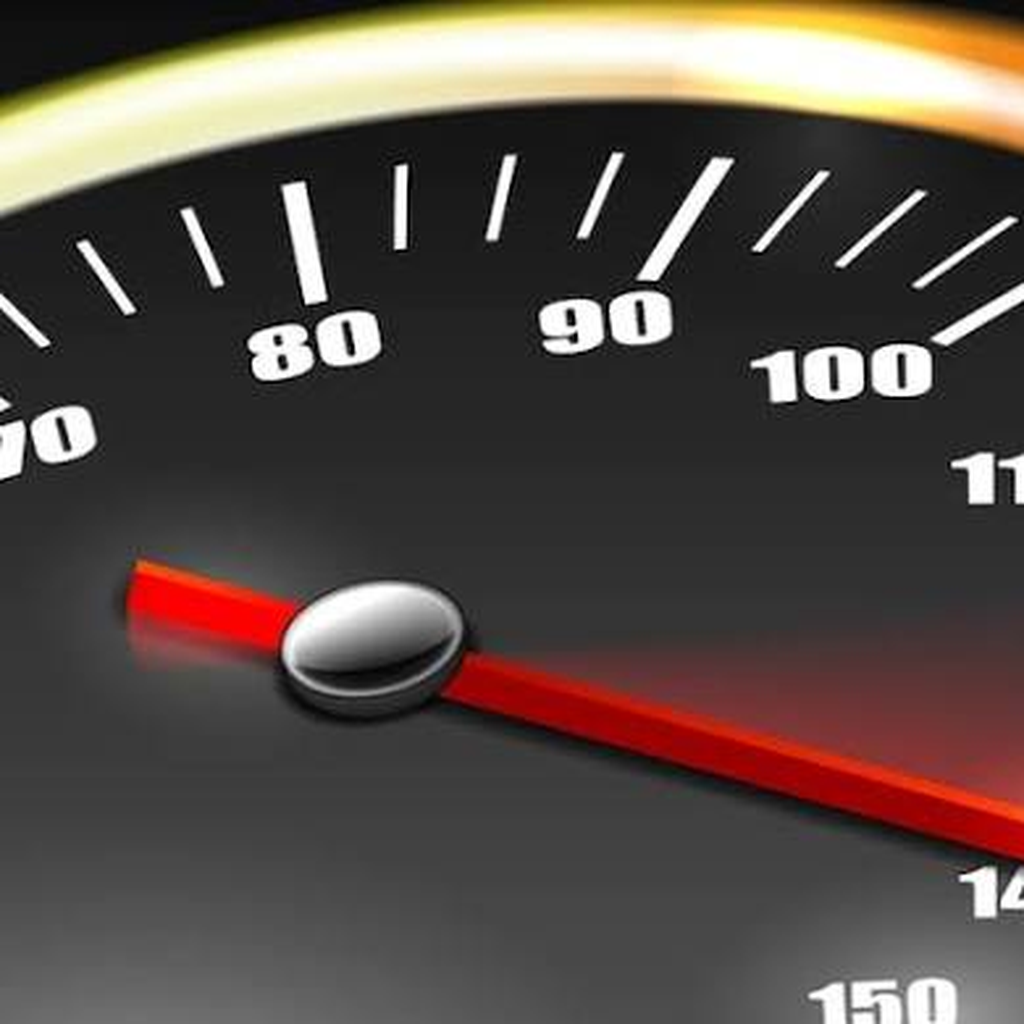
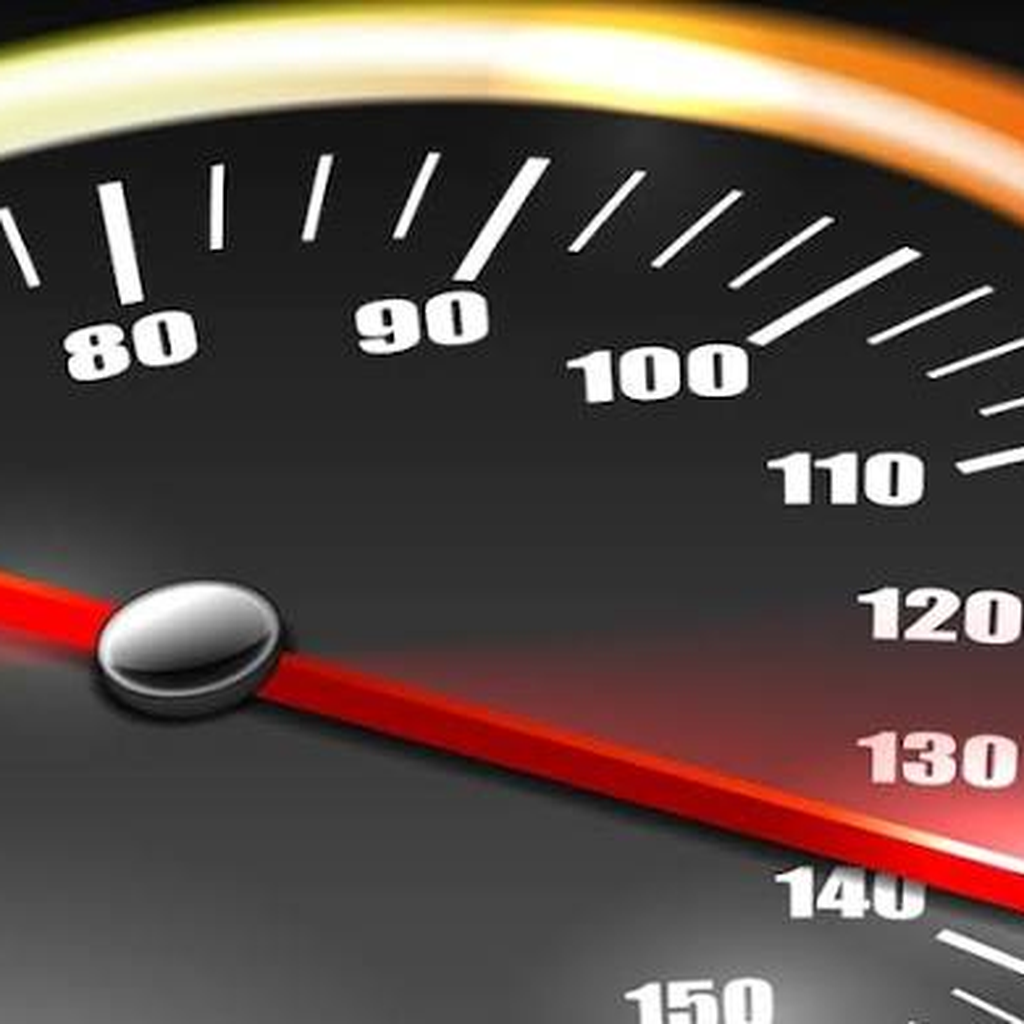
1.11.10: splash com a imagem inteira, ícone refeito e ícone de tacógrafo na barra de estado
Claude-Session: https://claude.ai/code/session_01Dghr6wNKxsXXBDsgbnRJ7d

diff --git a/lib/main.dart b/lib/main.dart
@@ -2,6 +2,7 @@ import 'dart:async';
 import 'dart:convert';
 import 'dart:math' as math;
 import 'dart:ui' show FontFeature;
+import 'dart:ui' as ui;
 
 import 'package:flutter/material.dart';
 import 'package:flutter/services.dart';
@@ -115,20 +116,29 @@ class _SplashScreenState extends State<SplashScreen> {
       body: Stack(
         fit: StackFit.expand,
         children: [
-          Image.asset('assets/splash.jpg',
-              fit: BoxFit.cover, alignment: const Alignment(-0.35, 0)),
+          // 1.11.10: fundo = a imagem desfocada e escura a encher o ecrã;
+          // por cima, a imagem inteira (sem cortar), no meio.
+          ImageFiltered(
+            imageFilter: ui.ImageFilter.blur(sigmaX: 18, sigmaY: 18),
+            child: Image.asset('assets/splash.jpg', fit: BoxFit.cover),
+          ),
+          const ColoredBox(color: Color(0x88000000)),
+          Center(
+            child: Image.asset('assets/splash.jpg',
+                fit: BoxFit.fitWidth, width: double.infinity),
+          ),
           const DecoratedBox(
             decoration: BoxDecoration(
               gradient: LinearGradient(
                 begin: Alignment.topCenter,
                 end: Alignment.bottomCenter,
                 colors: [
-                  Color(0x66000000),
-                  Color(0x22000000),
-                  Color(0xCC000000),
+                  Color(0x99000000),
+                  Color(0x00000000),
+                  Color(0x00000000),
                   Color(0xF2000000),
                 ],
-                stops: [0, 0.35, 0.72, 1],
+                stops: [0, 0.32, 0.62, 1],
               ),
             ),
           ),

diff --git a/lib/tracker.dart b/lib/tracker.dart
@@ -569,6 +569,9 @@ class Tracker extends ChangeNotifier {
         notificationTitle: tr('TacoGuard ativo'),
         notificationText: tr('Controlando a jornada pelo GPS'),
         enableWakeLock: true,
+        // 1.11.10: ícone de tacógrafo na barra de estado (perto das horas).
+        notificationIcon:
+            const AndroidResource(name: 'ic_stat_tacho', defType: 'drawable'),
       ),
     );
     _sub = Geolocator.getPositionStream(locationSettings: settings).listen(

diff --git a/README.md b/README.md
@@ -67,6 +67,7 @@ Segredos do repositório (Settings > Secrets and variables > Actions):
 
 ## Versões
 
+- **1.11.10**: **Splash**: a imagem do conta-quilómetros aparece inteira (sem o zoom que cortava), com o fundo da mesma imagem desfocada. **Ícone do app** refeito: recorte quadrado com 80-90-100 e o ponteiro, dentro da zona segura do ícone adaptativo (já não fica cortado). **Barra de estado**: com o app minimizado aparece um ícone de **tacógrafo** perto das horas (`drawable/ic_stat_tacho.xml`, protegido por `raw/keep.xml`).
 - **1.11.9**: Mini tutorial **"Como ligar (passo a passo)"** em Ajustes → Tacógrafo (4 idiomas): no tacógrafo (menu Bluetooth → Emparelhar), no telemóvel (emparelhar o DTCO-… e confirmar o código de 6 números) e no TacoGuard (ligar a opção, permitir Aparelhos próximos, escolher o tacógrafo), mais o que fazer se não ligar.
 - **1.11.8**: Novo cartão **Tacógrafo** no ecrã Hoje (só aparece com o Bluetooth ligado e dados a chegar): atividade do motorista 1 (descanso/disponibilidade/trabalho/condução) e os tempos lidos do DTCO — condução contínua, pausa acumulada, atividade atual há, condução hoje e na semana, quanto falta conduzir (até a pausa, hoje, semana, 2 semanas) e até ao descanso diário/semanal. Ordem dos pedidos ajustada para os dados mais úteis virem primeiro. Sem ligação, o app continua por GPS como antes.
 - **1.11.7**: Tacógrafo V2 **a funcionar**: o DTCO responde a todos os pedidos (1 crédito por vez, um dado a cada ~4 s). Os tempos vêm em **minutos, 2 bytes** (ex.: condução semanal `06 6B` = 1643 min = 27h23; descanso atual `04 44` = 18h12). A tela de teste mostra agora os valores já em h:mm.
